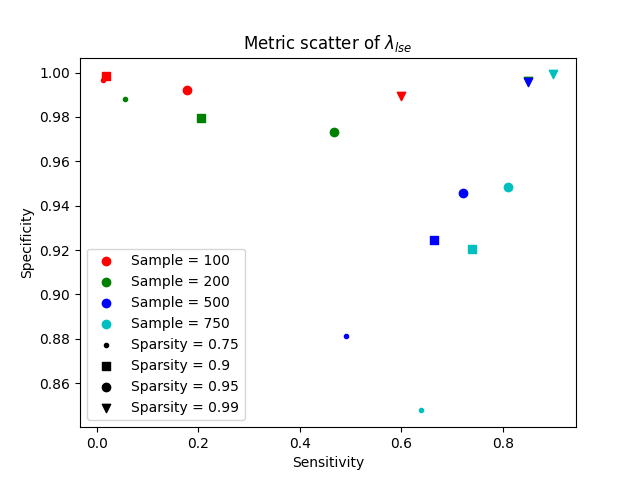
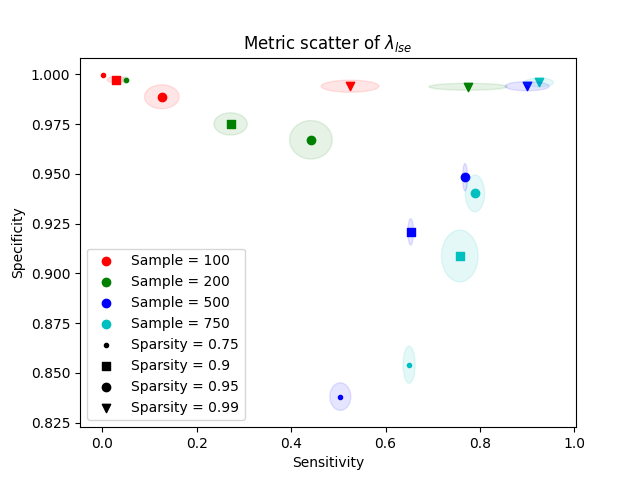
scatter

diff --git a/Exercise DREI/jespers_hole_in_ass_task_1.py b/Exercise DREI/jespers_hole_in_ass_task_1.py
@@ -4,7 +4,7 @@ from numpy.random import Generator, PCG64
 from sklearn.linear_model import LassoCV, Lasso
 from sklearn.metrics import confusion_matrix, mean_squared_error
 from collections import namedtuple
-import matplotlib.patches as mpatches
+from matplotlib.patches import Ellipse
 import matplotlib.pyplot as plt 
 
 def simulate_data(n, p, rng, *,sparsity=0.95, SNR=2.0, beta_scale=5.0):
@@ -98,12 +98,16 @@ def plot_sctr(sens,spec,title):
     mean_spec = np.mean(spec,axis=0).flatten()
     #print(np.mean(sens,axis=0))
     #print(mean_sens)
-    markers = ["." , "," , "o" , "v" ]  #Must match sparsity size
+    markers = ["." , "," , "o" , "v"]  #Must match sparsity size
     colors = ['r','g' ,'b','c']  #Must match n size
     for i,co in enumerate(colors):
         for j,mi in enumerate(markers):
             indx = i+j*len(colors)
             plt.scatter(mean_sens[indx],mean_spec[indx],marker=mi,color=co)
+            wid =  np.std(sens[:,j,i])
+            hig = np.std(spec[:,j,i])
+            circle = Ellipse((mean_sens[indx], mean_spec[indx]), width = wid , height = hig, color=co,alpha = 0.1)
+            plt.gca().add_patch(circle)
     for i,col in enumerate(colors):
         plt.scatter([],[],color=col,label=f'Sample = {n[i]}')
     for i,mi in enumerate(markers):
@@ -189,11 +193,11 @@ plot_error(mse_min_train,r'Train MSE of $\lambda_{min}$',True)
 plot_error(mse_min_test,r'Test MSE of $\lambda_{min}$',True)
 plot_error(mse_lse_train,r'Train MSE of $\lambda_{lse}$',True)
 plot_error(mse_lse_test,r'Test MSE of $\lambda_{lse}$',True)
-
+'''
 plot_error(sens_min,r'Sensitivity of $\lambda_{min}$',False)
 plot_error(spec_min,r'Specificity of $\lambda_{min}$',False)
 plot_error(sens_lse,r'Sensitivity of $\lambda_{lse}$',False)
 plot_error(spec_lse,r'Specificity of $\lambda_{lse}$',False)
-
+'''
 plot_sctr(sens_min,spec_min,r'Metric scatter of $\lambda_{min}$')
 plot_sctr(sens_lse,spec_lse,r'Metric scatter of $\lambda_{lse}$')
